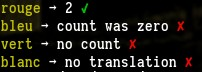
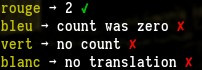
d

diff --git a/README/README.html b/README/README.html
@@ -1207,7 +1207,6 @@ storing a string with a failure reason in the Left branch.</p>
   <span class="hljs-attr">rouge</span>: <span class="hljs-string">'red'</span>,
   <span class="hljs-attr">bleu</span>: <span class="hljs-string">'blue'</span>,
   <span class="hljs-attr">vert</span>: <span class="hljs-string">'green'</span>,
-  <span class="hljs-comment">// blanc missing</span>
 }
 
 <span class="hljs-keyword">const</span> count = {
@@ -1216,7 +1215,7 @@ storing a string with a failure reason in the Left branch.</p>
   <span class="hljs-comment">// green undefined</span>
 }
 
-<span class="hljs-keyword">const</span> formatAnswer = list &gt;&gt; asterisk ([yellow, id]) &gt;&gt; sprintfN (<span class="hljs-string">'%s → %s'</span>)
+<span class="hljs-keyword">const</span> formatAnswer = list &gt;&gt; asteriskN ([yellow, id]) &gt;&gt; sprintfN (<span class="hljs-string">'%s → %s'</span>)
 
 <span class="hljs-keyword">const</span> getTranslation = propOf (translations) &gt;&gt; toEither (<span class="hljs-string">'no translation'</span>)
 <span class="hljs-keyword">const</span> getCount       = propOf (count)        &gt;&gt; toEither (<span class="hljs-string">'no count'</span>)
@@ -1230,11 +1229,10 @@ storing a string with a failure reason in the Left branch.</p>
   &gt;&gt; flatMap (getCount)
   &gt;&gt; flatMap (getQuotient)
 
-<span class="hljs-keyword">const</span> calculate = doLookup
-  &gt;&gt; fold (
-    <span class="hljs-function"><span class="hljs-params">l</span> =&gt;</span> l + <span class="hljs-string">' '</span> + red (<span class="hljs-string">'✘'</span>),
-    r =&gt; r + <span class="hljs-string">' '</span> + green (<span class="hljs-string">'✔'</span>),
-  )
+<span class="hljs-keyword">const</span> calculate = doLookup &gt;&gt; fold (
+  prependTo ([<span class="hljs-string">'✘'</span> | red])   &gt;&gt; sprintfN (<span class="hljs-string">'%s %s'</span>),
+  prependTo ([<span class="hljs-string">'✔'</span> | green]) &gt;&gt; sprintfN (<span class="hljs-string">'%s %s'</span>),
+)
 
 <span class="hljs-keyword">const</span> doit = timesV (<span class="hljs-number">2</span>)
   &gt;&gt; arrowSnd (calculate)
